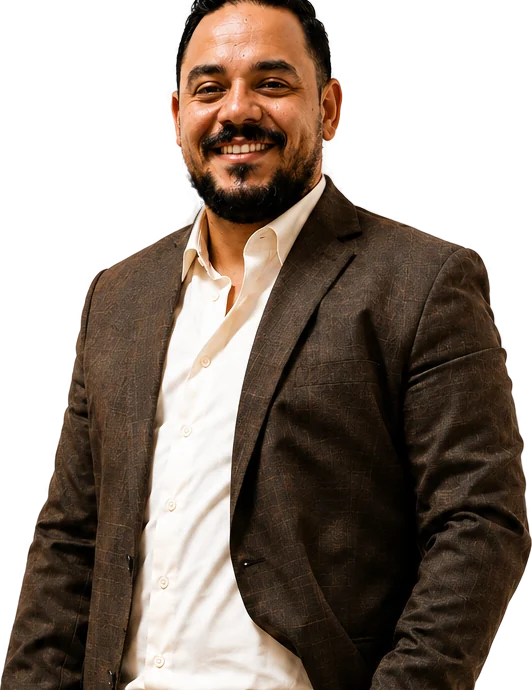
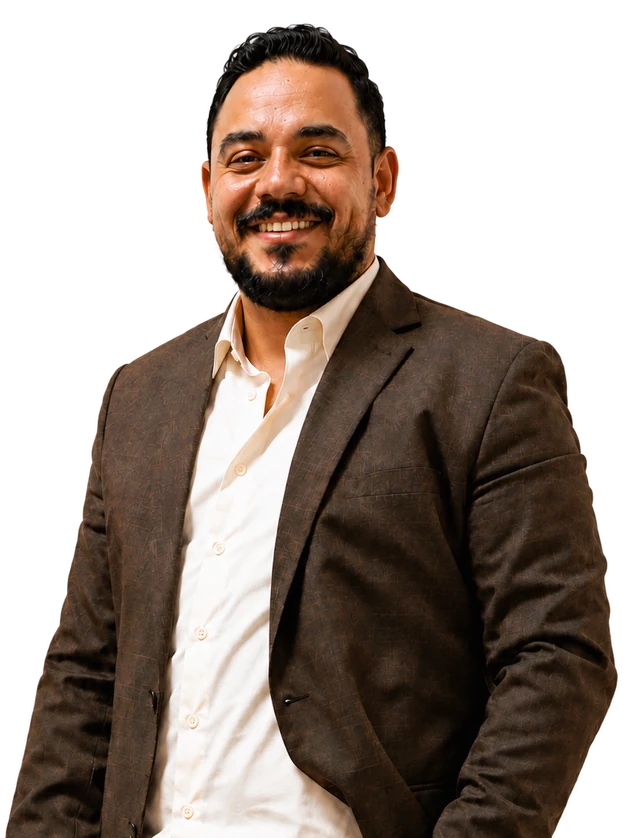
fix(landing): full-head portrait (hair AI-extended)
The old cutout was cropped at the hairline. The hair above the original
crop line is extended with Gemini; face and clothes are unchanged.

diff --git a/apps/landing/styles.css b/apps/landing/styles.css
@@ -96,7 +96,6 @@ html { scrollbar-color: var(--navy-line) var(--ground); }
 .hero__slogan { margin-top: 36px; font: 600 1rem/1.4 var(--display); color: var(--baby); }
 .hero__portrait { align-self: end; justify-self: center; width: min(100%, 520px); }
 .hero__portrait img { width: 100%; filter: drop-shadow(0 30px 60px rgba(4, 14, 26, .45)); }
-
 /* Ledger */
 .ledger { border-bottom: 1px solid var(--line); background: var(--white); }
 .ledger__list { display: grid; grid-template-columns: repeat(4, minmax(0, 1fr)); }

diff --git a/apps/landing/index.html b/apps/landing/index.html
@@ -62,7 +62,7 @@
         <p class="hero__slogan">Prepared Minds Score Higher.</p>
       </div>
       <figure class="hero__portrait">
-        <img src="assets/portrait.webp" alt="Abdelrahman Elmenshawy, smiling, in a brown suit" width="560" height="690" fetchpriority="high">
+        <img src="assets/portrait.webp" alt="Abdelrahman Elmenshawy, smiling, in a brown suit" width="640" height="838" fetchpriority="high">
       </figure>
     </div>
   </header>

diff --git a/apps/landing/README.md b/apps/landing/README.md
@@ -17,5 +17,5 @@ Create a separate Pages project. It is not the Flutter app's project.
 
 - The app links point at `https://sat-prod.pages.dev`. When the domain is decided (Q-01), update `APP_ORIGIN` in `main.js` and the `href`s in `index.html`.
 - Make `og:image` in `index.html` absolute (`https://<landing-domain>/assets/og.png`).
-- Replace `assets/portrait.webp` with a cutout of the original high-resolution photo. The current one is 532×690.
+- Replace `assets/portrait.webp` with a cutout of the original high-resolution photo. The current one is 640×838, and the hair above the original crop line is AI-extended (Gemini).
 - Mark Cognia as awarded only after the credential arrives.
